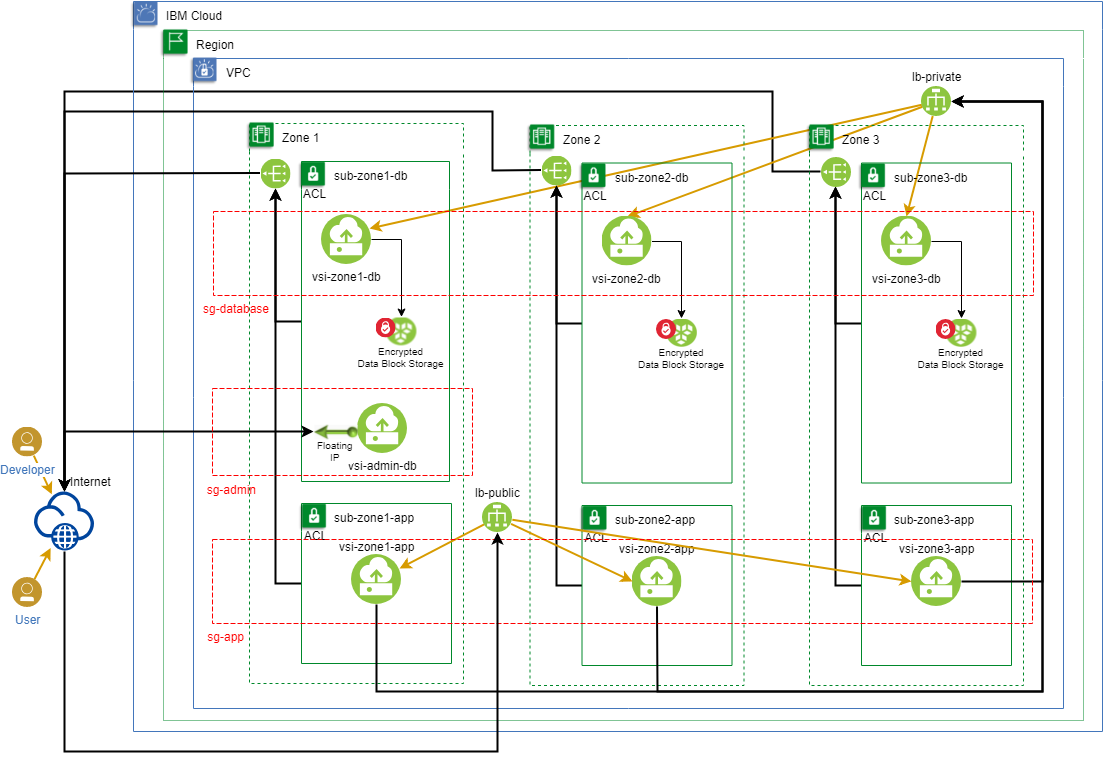
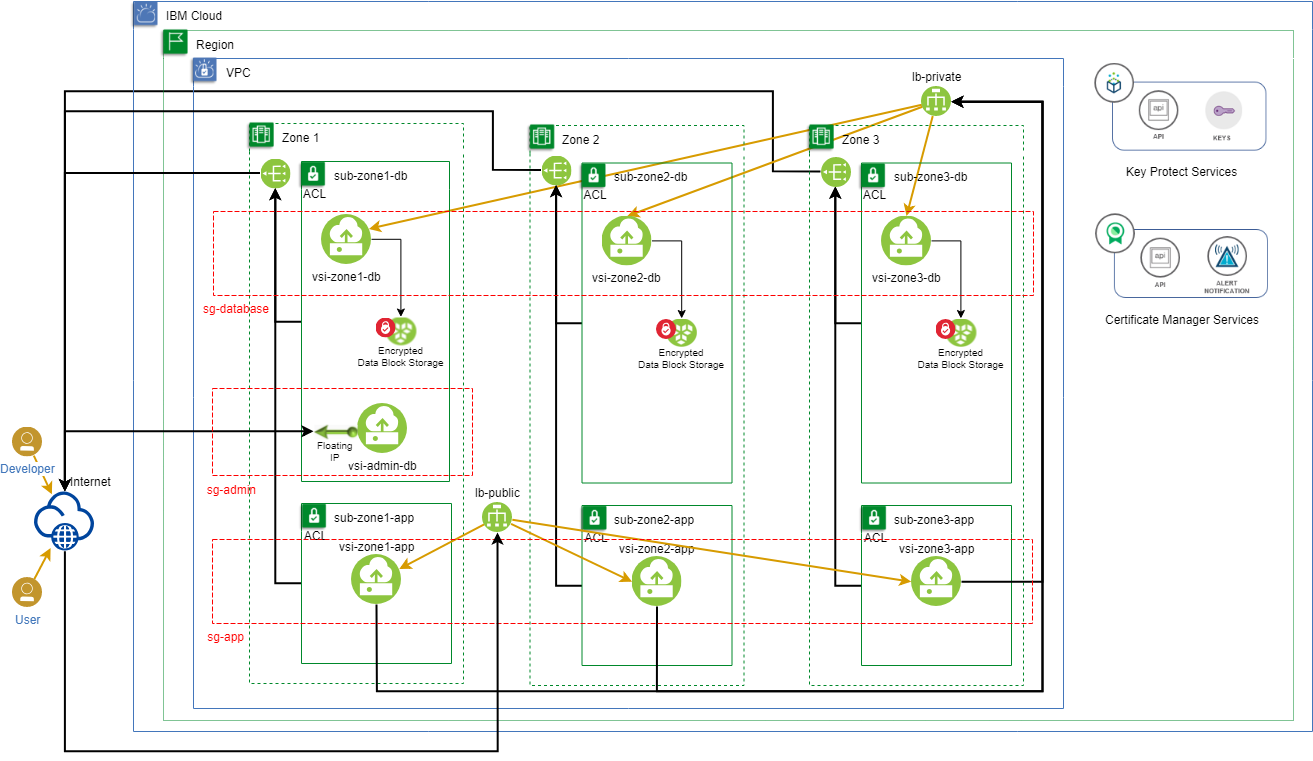
diagram updates and cm import fix
- fix an issue where the keys were not getting imported because of a carriage return hidden character in the crn
- updated diagram to depict cm and key protect

diff --git a/vpc-cockroachdb-mzr/readme.md b/vpc-cockroachdb-mzr/readme.md
@@ -1,12 +1,3 @@
-## Objectives
-Blog post showing how to run CockroachDB in a VPC, on VSI with block storage and "bring your own encryption" key stored in Key Protect
-
-Highlighting:
-
-- Use of block storage for data application
-- Encryption of data and application
-- Use of cloud-init https://cloud.ibm.com/docs/vsi-is?topic=virtual-servers-is-user-data#user-data for the software installation?
-
 ## Deploying CockroachDB in a Multi-Zoned Environment with Encrypted Block Storage
 
 Deploying a database for a web application with high availability, i.e. always online and security is considered by some to be a nontrivial activity, and one that a developer will almost always delegate to an administrator.  But it is not as time-consuming as one might think (once you understand all the components that are needed) and with the availability of virtual private cloud (VPC) and the various services it provides, i.e. load balancer as a service (LBaaS), block storage with encryption, security groups and more, a developer can quickly deploy a production like infrastructure, i.e. minus the CPU, RAM and/or storage to support a reduced workload.  
@@ -16,47 +7,7 @@ This post will explore some of these concepts and demonstrate how you can deploy
 ## Environment Overview
 A high availability environment can typically include as little as 2 nodes in a cluster. However, in this scenario we will be using CockroachDb as our database server and we will follow the [CockroachDB recommendation for a 3 nodes cluster](https://www.cockroachlabs.com/docs/stable/recommended-production-settings.html#basic-topology-recommendations) for a multi-active availability database environment. Such environment can be deployed in any of the multi-zones regions in the IBM Cloud and the 3 nodes distributed to each of the 3 zones in the given region.
 
-![](./docs/diagrams/cockroachdb-mzr.png)
-
-| VPC 	| Zones 	| Subnets       	| VSIs            	| Volumes 	| Description                                                                 	|
-|-----	|-------	|---------------	|-----------------	|---------	|-----------------------------------------------------------------------------	|
-| vpc 	|       	|               	|                 	|         	|                                                                             	|
-|     	| zone1 	|               	|                 	|         	| availability zone within region                                        	|
-|     	|       	| sub&#x2011;database&#x2011;1  	|                 	|         	| subnet for database instances                                           	|
-|     	|       	|               	| vsi&#x2011;database&#x2011;1    	|         	| virtual server instance running Ubuntu 18.04 LTS and CockroachDB        	|
-|     	|       	|               	|                 	| boot    	| default created with every instance, provider encrypted                 	|
-|     	|       	|               	|                 	| data    	| added to instance with 10 IOPS/GB Tier, customer encrypted                 	|
-|     	|       	|               	| vsi-admin 	|         	| virtual server instance running Ubuntu 18.04 LTS and CockroachDB        	|
-|     	|       	|               	|                 	| boot    	| default created with every instance, provider encrypted                 	|
-|     	|       	| sub-app-1 	|                 	|         	| subnet for application instances                                        	|
-|     	|       	|               	| vsi-app-1   	|         	| virtual server instance running Ubuntu 18.04 LTS and custom application 	|
-|     	|       	|               	|                 	| boot    	| default created with every instance, provider encrypted                 	|
-|     	| zone2 	|               	|                 	|         	| availability zone within region                                        	|
-|     	|       	| sub-database-2  	|                 	|         	| subnet for database instances                                           	|
-|     	|       	|               	| vsi-database-2    	|         	| virtual server instance running Ubuntu 18.04 LTS and CockroachDB        	|
-|     	|       	|               	|                 	| boot    	| default created with every instance, provider encrypted                 	|
-|     	|       	|               	|                 	| data    	| added to instance with 10 IOPS/GB Tier, customer encrypted                 	|
-|     	|       	| sub-app-2 	|                 	|         	| subnet for application instances                                        	|
-|     	|       	|               	| vsi-app-2   	|         	| virtual server instance running Ubuntu 18.04 LTS and custom application 	|
-|     	|       	|               	|                 	| boot    	| default created with every instance, provider encrypted                 	|
-|     	| zone3 	|               	|                 	|         	| availability zone within region                                        	|
-|     	|       	| sub-database-3  	|                 	|         	| subnet for database instances                                           	|
-|     	|       	|               	| vsi-database-3    	|         	| virtual server instance running Ubuntu 18.04 LTS and CockroachDB        	|
-|     	|       	|               	|                 	| boot    	| default created with every instance, provider encrypted                 	|
-|     	|       	|               	|                 	| data    	| added to instance with 10 IOPS/GB Tier, customer encrypted                 	|
-|     	|       	| sub-app-3 	|                 	|         	| subnet for application instances                                        	|
-|     	|       	|               	| vsi-app-3   	|         	| virtual server instance running Ubuntu 18.04 LTS and custom application 	|
-|     	|       	|               	|                 	| boot    	| default created with every instance, provider encrypted                 	|
-
->**Note 1:** Load Balancers (LBaaS) and Public Gateways (PGW) are available across region with redundancy and auto-scale based on load and are IBM Cloud managed.
-
->**Note 2:** PGW are for outbound Internet access only, no inbound allowed unless it is a response to outbound request.
-
->**Note 3:** The data volumes are not shared as the database engine will handle data replication between the nodes. If the application requires it they can be shared.
-
->**Note 4:** The load balancers to the database instances have an internal only egress and will not accept any connections outside of the VPC.
-
->**Note 5:** The load balancer to the application instances are public and have an external egress, customer can also use their own address if desired.
+![](./docs/diagrams/cockroachdb-mzr-simple.png)
 
 ## Components to be deployed
 [VPC Components Glossary](https://cloud.ibm.com/docs/infrastructure/vpc?topic=vpc-vpc-glossary)
@@ -95,6 +46,18 @@ The VSIs that will be created for CockroachDB will each have a data block storag
 
 The script will generate a Key Protect instance and create a key that will be used to encrypt the block storage. 
 
+## Certificate Manager instance
+The VSIs that will be created for CockroachDB will each a certificate created that is used to securely communicate with each node, in addition a certificate is created for the root user as well as an application user called "maxroach". These certificates are stored securely in Certificate Manager where you get a central view of the certificates that you are using. You can manage your certificates in the following ways:
+
+- Get notified before your certificates expire to ensure that you renew them on time
+- Use notifications to trigger automated certificate renewal
+- View the types of certificates across your deployments and ensure that they meet organization policies
+- Find certificates that need replacing when new compliance or security requirements are issued
+- Set controls on who can access and manage your certificates
+- Order new public certificates
+
+The script will generate a Certificate Manager instance and import all the keys used for communicating with the cockroach nodes. 
+
 ## Build the environment in the IBM Cloud using a prepared shell script and template configuration
 
 - Review the [behind the scenes](https://github.ibm.com/dimitri-prosper/snowball#behind-the-scenes) to understand what the build script can do.
@@ -108,14 +71,16 @@ The script will generate a Key Protect instance and create a key that will be us
         |   Name	|   Description	|
         |---	|---	|
         |   `cockroachdb.sh`	|   Creates the block storage partition, updates /etc/fstab and mounts it. Installs and configures each node in the CockroachDB cluster to run as a service (systemd) and and sets up the ntp service (typically required for database clusters to have a time service running on the nodes).	|
-        |   `cockroachdb-admin.sh`	|   Initialize the cockroachdb cluster for the very first time.	|
+        |   `app-deploy.sh`	|   Installs nodejs and deploys a small app to interact with a backend database service.	|
+
 
         #### ssh-init scripts
 
         |   Name	|   Description	|
         |---	|---	|
         |   `cockroachdb.sh`	|   Configure cockroachdb. 	|
-        |   `deployapp.sh`	|   Installs nodejs and deploys a small app to interact with a backend database service.	|
+        |   `cockroachdb-admin.sh`	|   Initialize the cockroachdb cluster for the very first time.	|
+        |   `app-configure.sh`	|   configure the app with settings obtained during the build, i.e. load balancer address.	|
             
 - Create a configuration file to match your desired settings and place in a directory of your choice, the following properties must be set: 
 
@@ -329,17 +294,47 @@ Running the following script will delete all resources listed inside of the myco
 
     - [Deploy CockroachDB](https://www.cockroachlabs.com/docs/stable/deploy-cockroachdb-on-premises-insecure.html#systemd) leveraging the documentation from CockroachDB for on-premises deployment. One difference is we will us the load balancer provided in the IBM Cloud VPC rather than installing the HA Proxy. 
 
-## TODO ITEMS
->- need to be more clear if any of this is for production for development
->
->- need to explain it is more test environment before going production
->
->- remove the table repetition for the zone (simplify)
->
->- introduction to VPC would be warranted (isolating resources, security) needed for developer wanting near production 
->
->- simplify the diagram
->
->- elaborate more on the security concepts
->
->- TLS for database could be nice to have....
+
+## Detail diagram of deployment via config template
+
+![](./docs/diagrams/cockroachdb-mzr.png)
+
+| VPC 	| Zones 	| Subnets       	| VSIs            	| Volumes 	| Description                                                                 	|
+|-----	|-------	|---------------	|-----------------	|---------	|-----------------------------------------------------------------------------	|
+| vpc 	|       	|               	|                 	|         	|                                                                             	|
+|     	| zone1 	|               	|                 	|         	| availability zone within region                                        	|
+|     	|       	| sub&#x2011;database&#x2011;1  	|                 	|         	| subnet for database instances                                           	|
+|     	|       	|               	| vsi&#x2011;database&#x2011;1    	|         	| virtual server instance running Ubuntu 18.04 LTS and CockroachDB        	|
+|     	|       	|               	|                 	| boot    	| default created with every instance, provider encrypted                 	|
+|     	|       	|               	|                 	| data    	| added to instance with 10 IOPS/GB Tier, customer encrypted                 	|
+|     	|       	|               	| vsi-admin 	|         	| virtual server instance running Ubuntu 18.04 LTS and CockroachDB        	|
+|     	|       	|               	|                 	| boot    	| default created with every instance, provider encrypted                 	|
+|     	|       	| sub-app-1 	|                 	|         	| subnet for application instances                                        	|
+|     	|       	|               	| vsi-app-1   	|         	| virtual server instance running Ubuntu 18.04 LTS and custom application 	|
+|     	|       	|               	|                 	| boot    	| default created with every instance, provider encrypted                 	|
+|     	| zone2 	|               	|                 	|         	| availability zone within region                                        	|
+|     	|       	| sub-database-2  	|                 	|         	| subnet for database instances                                           	|
+|     	|       	|               	| vsi-database-2    	|         	| virtual server instance running Ubuntu 18.04 LTS and CockroachDB        	|
+|     	|       	|               	|                 	| boot    	| default created with every instance, provider encrypted                 	|
+|     	|       	|               	|                 	| data    	| added to instance with 10 IOPS/GB Tier, customer encrypted                 	|
+|     	|       	| sub-app-2 	|                 	|         	| subnet for application instances                                        	|
+|     	|       	|               	| vsi-app-2   	|         	| virtual server instance running Ubuntu 18.04 LTS and custom application 	|
+|     	|       	|               	|                 	| boot    	| default created with every instance, provider encrypted                 	|
+|     	| zone3 	|               	|                 	|         	| availability zone within region                                        	|
+|     	|       	| sub-database-3  	|                 	|         	| subnet for database instances                                           	|
+|     	|       	|               	| vsi-database-3    	|         	| virtual server instance running Ubuntu 18.04 LTS and CockroachDB        	|
+|     	|       	|               	|                 	| boot    	| default created with every instance, provider encrypted                 	|
+|     	|       	|               	|                 	| data    	| added to instance with 10 IOPS/GB Tier, customer encrypted                 	|
+|     	|       	| sub-app-3 	|                 	|         	| subnet for application instances                                        	|
+|     	|       	|               	| vsi-app-3   	|         	| virtual server instance running Ubuntu 18.04 LTS and custom application 	|
+|     	|       	|               	|                 	| boot    	| default created with every instance, provider encrypted                 	|
+
+>**Note 1:** Load Balancers (LBaaS) and Public Gateways (PGW) are available across region with redundancy and auto-scale based on load and are IBM Cloud managed.
+
+>**Note 2:** PGW are for outbound Internet access only, no inbound allowed unless it is a response to outbound request.
+
+>**Note 3:** The data volumes are not shared as the database engine will handle data replication between the nodes. If the application requires it they can be shared.
+
+>**Note 4:** The load balancers to the database instances have an internal only egress and will not accept any connections outside of the VPC.
+
+>**Note 5:** The load balancer to the application instances are public and have an external egress, customer can also use their own address if desired.
